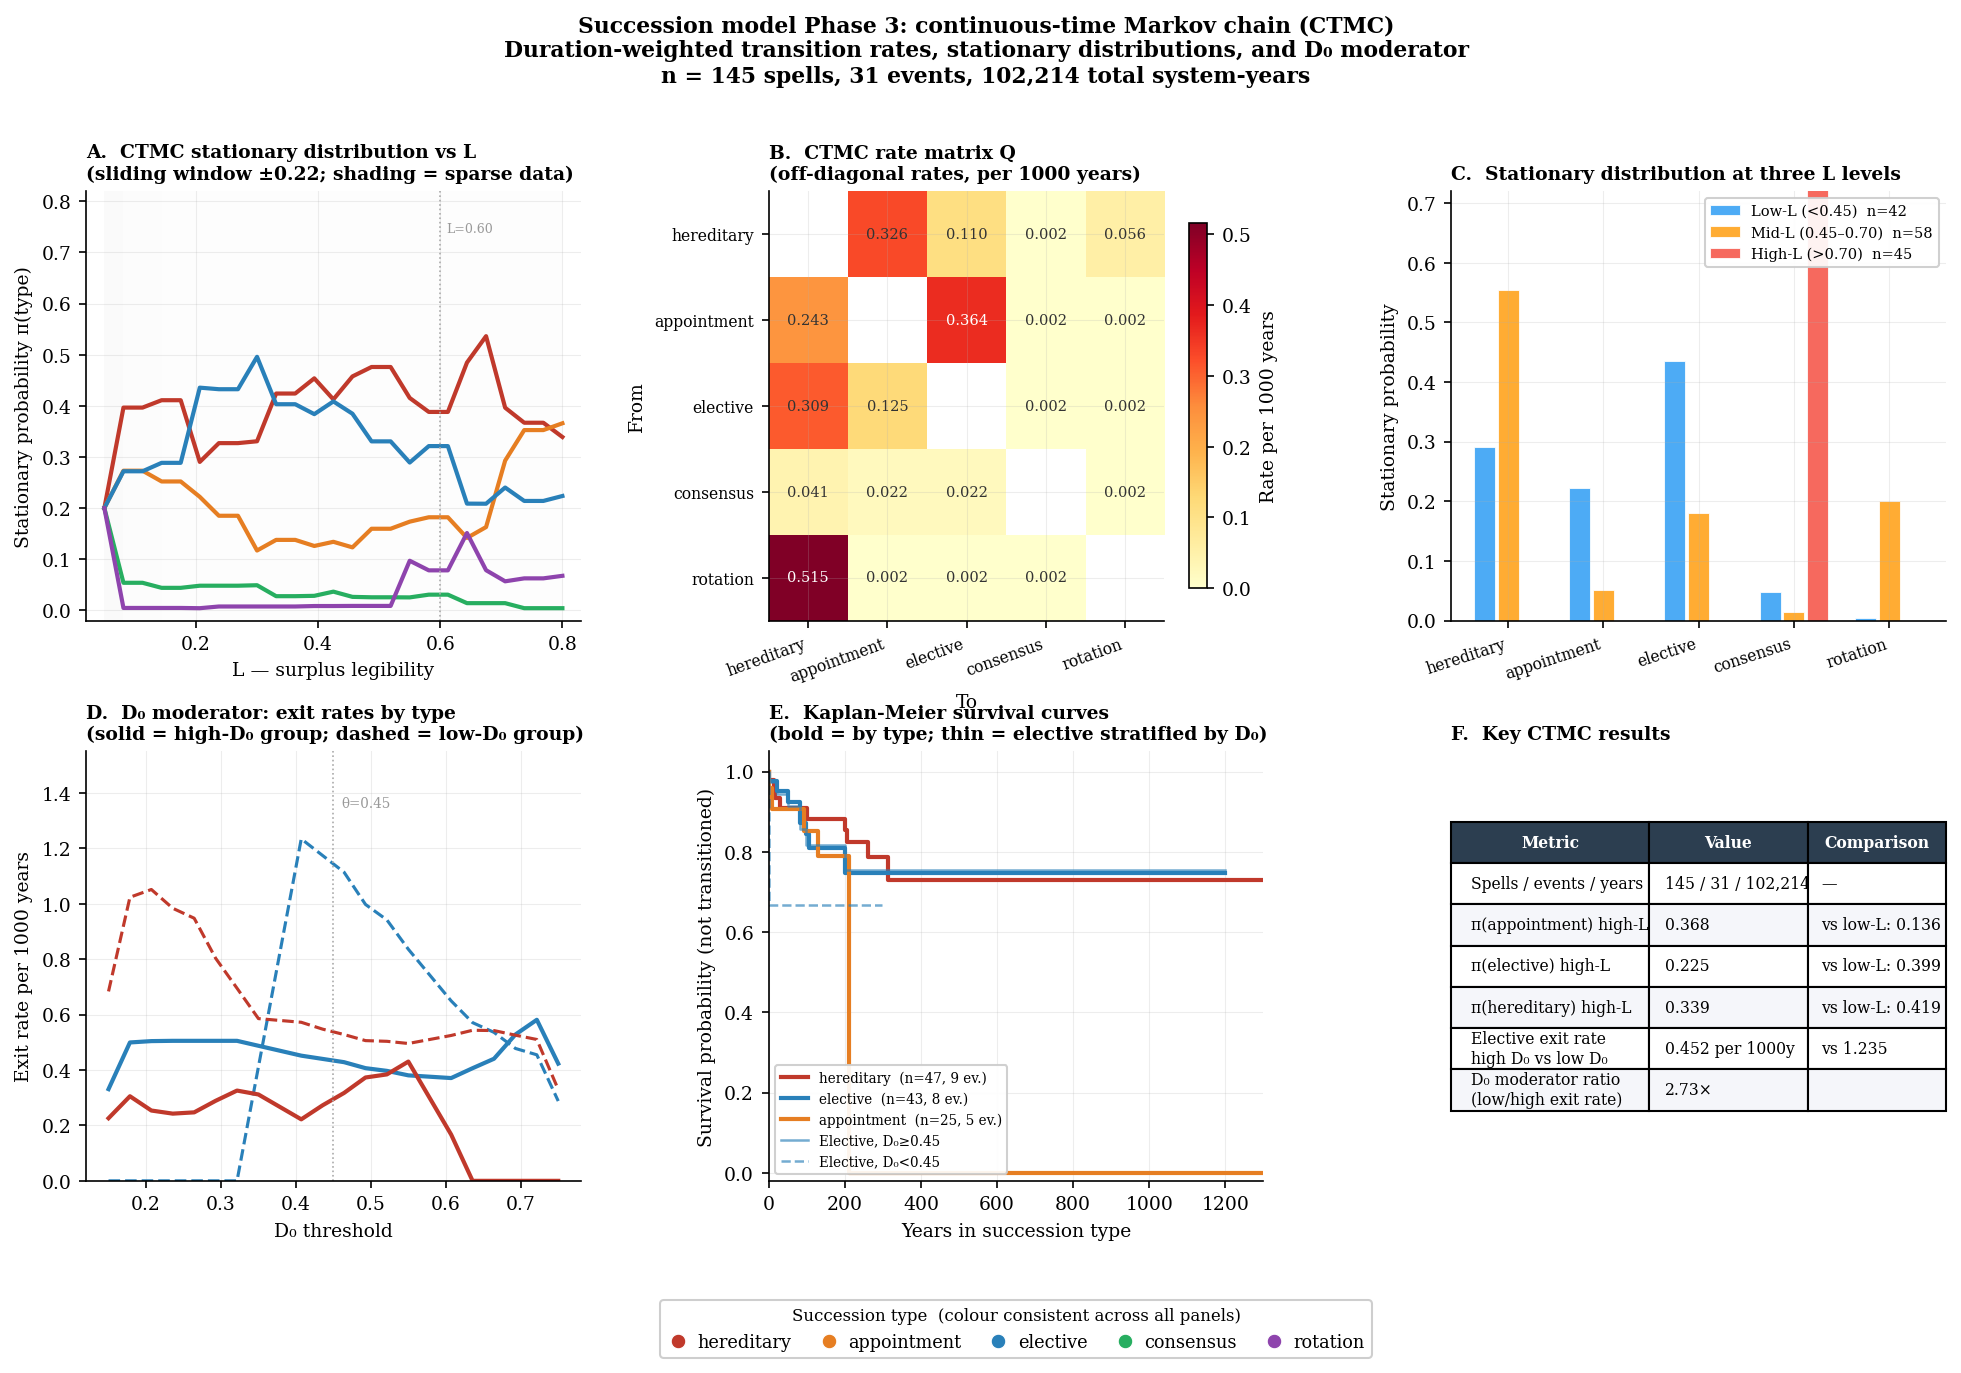
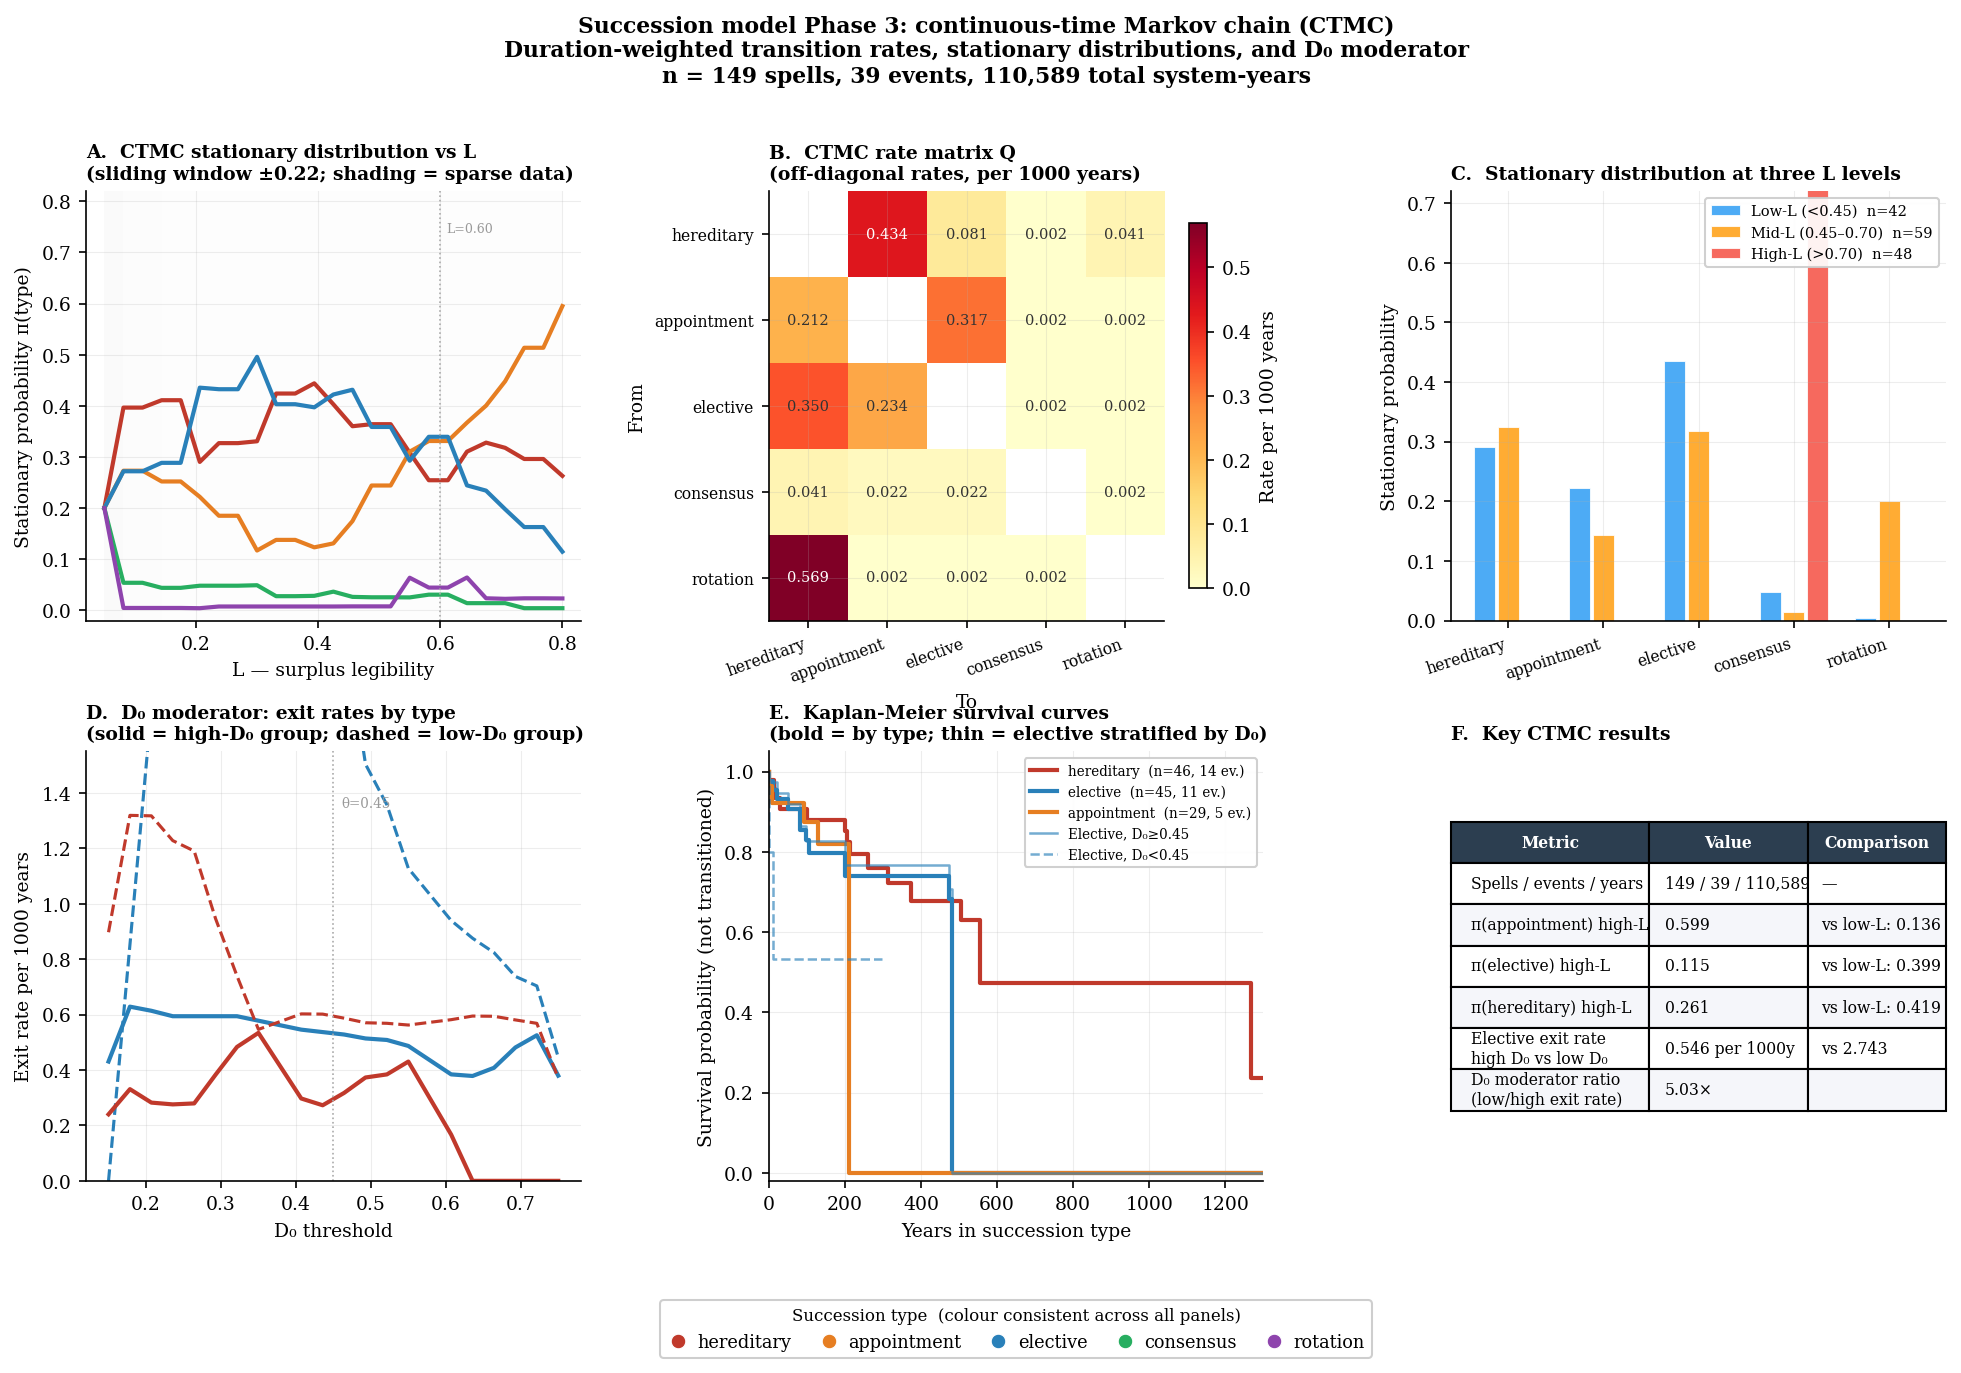
fix: succession model Phase 3 data and graph tweaks

diff --git a/src/succession_markov_ctmc.py b/src/succession_markov_ctmc.py
@@ -675,7 +675,7 @@ def make_figure(sdf, visuals_dir=OUTPUT_DIR):
     ax_e.set_title('E.  Kaplan-Meier survival curves\n'
                    '(bold = by type; thin = elective stratified by D₀)',
                    fontsize=9, fontweight='bold', loc='left', pad=6)
-    ax_e.legend(fontsize=6.5, loc='lower left',
+    ax_e.legend(fontsize=6.5, loc='upper right',
                 frameon=True, framealpha=0.92)
 
     # ── F: Summary table ──────────────────────────────────────────────────────